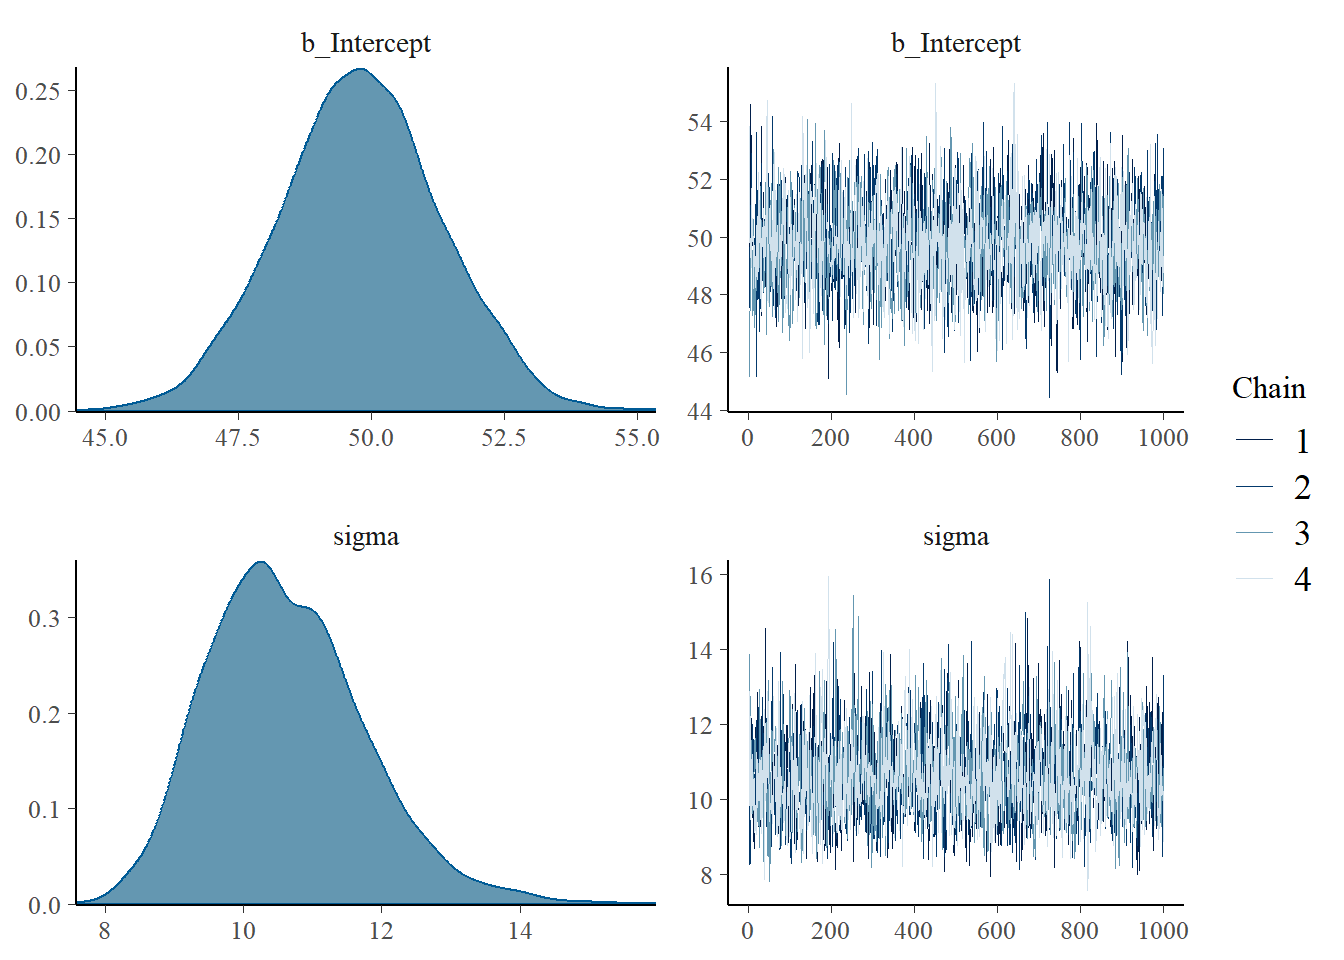
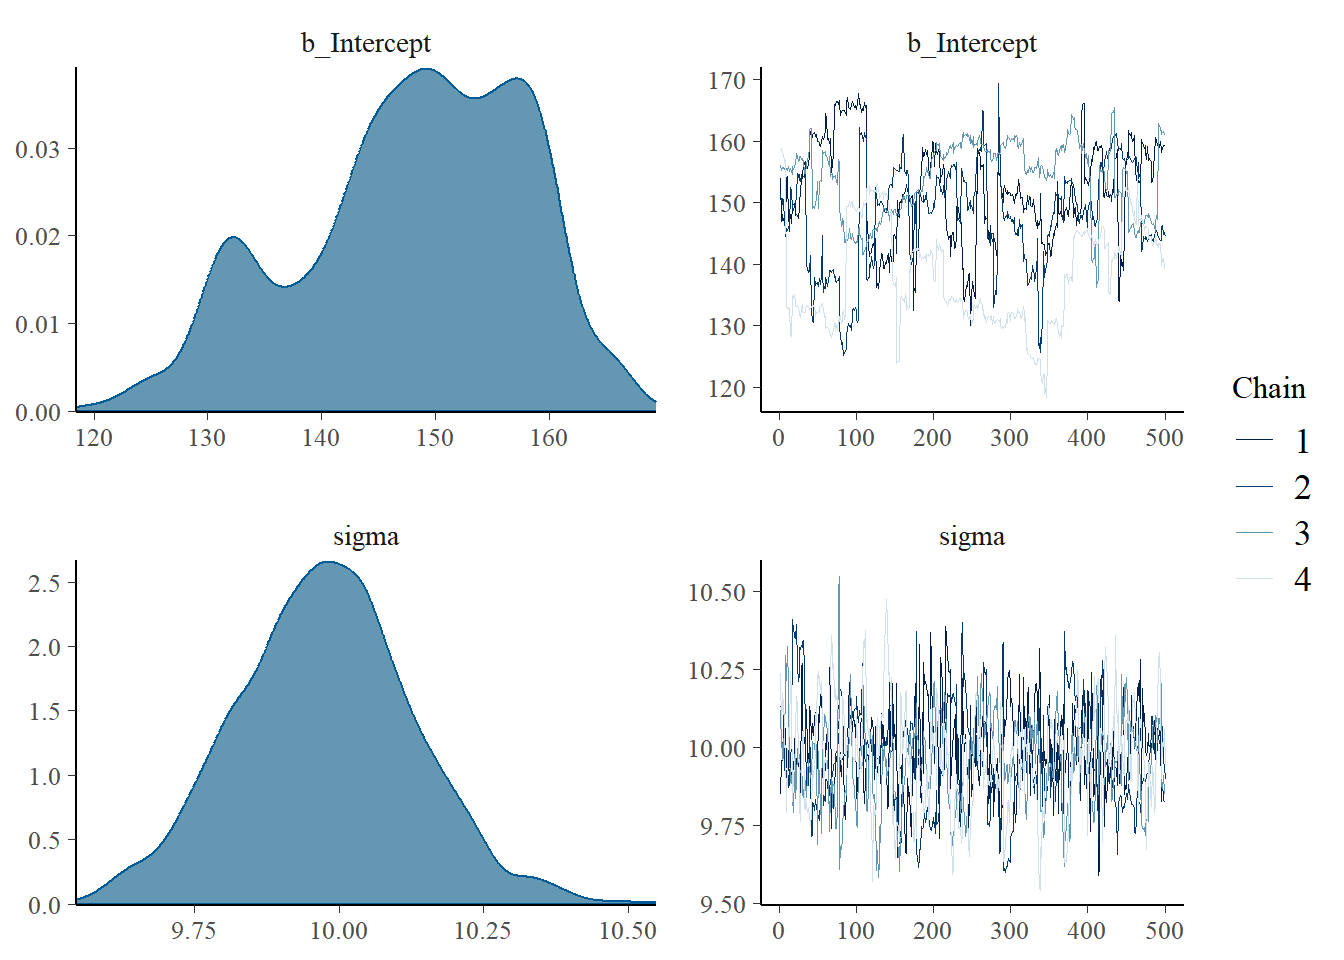
Add files via upload
man, I really would like this to work :)

diff --git a/docs/blog_entries.html b/docs/blog_entries.html
@@ -371,125 +371,29 @@ code span.wa { color: #60a0b0; font-weight: bold; font-style: italic; } /* Warni
 <span id="cb3-17"><a href="#cb3-17" aria-hidden="true" tabindex="-1"></a>  </span>
 <span id="cb3-18"><a href="#cb3-18" aria-hidden="true" tabindex="-1"></a>  <span class="co"># Save the fitted model</span></span>
 <span id="cb3-19"><a href="#cb3-19" aria-hidden="true" tabindex="-1"></a>  <span class="fu">saveRDS</span>(fit, <span class="st">"saved_model2.rds"</span>)</span>
-<span id="cb3-20"><a href="#cb3-20" aria-hidden="true" tabindex="-1"></a>}</span></code><button title="Copy to Clipboard" class="code-copy-button"><i class="bi"></i></button></pre></div>
-<div class="cell-output cell-output-stdout">
-<pre><code>
-SAMPLING FOR MODEL 'anon_model' NOW (CHAIN 1).
-Chain 1: 
-Chain 1: Gradient evaluation took 4.5e-05 seconds
-Chain 1: 1000 transitions using 10 leapfrog steps per transition would take 0.45 seconds.
-Chain 1: Adjust your expectations accordingly!
-Chain 1: 
-Chain 1: 
-Chain 1: Iteration:    1 / 2000 [  0%]  (Warmup)
-Chain 1: Iteration:  200 / 2000 [ 10%]  (Warmup)
-Chain 1: Iteration:  400 / 2000 [ 20%]  (Warmup)
-Chain 1: Iteration:  600 / 2000 [ 30%]  (Warmup)
-Chain 1: Iteration:  800 / 2000 [ 40%]  (Warmup)
-Chain 1: Iteration: 1000 / 2000 [ 50%]  (Warmup)
-Chain 1: Iteration: 1001 / 2000 [ 50%]  (Sampling)
-Chain 1: Iteration: 1200 / 2000 [ 60%]  (Sampling)
-Chain 1: Iteration: 1400 / 2000 [ 70%]  (Sampling)
-Chain 1: Iteration: 1600 / 2000 [ 80%]  (Sampling)
-Chain 1: Iteration: 1800 / 2000 [ 90%]  (Sampling)
-Chain 1: Iteration: 2000 / 2000 [100%]  (Sampling)
-Chain 1: 
-Chain 1:  Elapsed Time: 0.037 seconds (Warm-up)
-Chain 1:                0.023 seconds (Sampling)
-Chain 1:                0.06 seconds (Total)
-Chain 1: 
-
-SAMPLING FOR MODEL 'anon_model' NOW (CHAIN 2).
-Chain 2: 
-Chain 2: Gradient evaluation took 1e-05 seconds
-Chain 2: 1000 transitions using 10 leapfrog steps per transition would take 0.1 seconds.
-Chain 2: Adjust your expectations accordingly!
-Chain 2: 
-Chain 2: 
-Chain 2: Iteration:    1 / 2000 [  0%]  (Warmup)
-Chain 2: Iteration:  200 / 2000 [ 10%]  (Warmup)
-Chain 2: Iteration:  400 / 2000 [ 20%]  (Warmup)
-Chain 2: Iteration:  600 / 2000 [ 30%]  (Warmup)
-Chain 2: Iteration:  800 / 2000 [ 40%]  (Warmup)
-Chain 2: Iteration: 1000 / 2000 [ 50%]  (Warmup)
-Chain 2: Iteration: 1001 / 2000 [ 50%]  (Sampling)
-Chain 2: Iteration: 1200 / 2000 [ 60%]  (Sampling)
-Chain 2: Iteration: 1400 / 2000 [ 70%]  (Sampling)
-Chain 2: Iteration: 1600 / 2000 [ 80%]  (Sampling)
-Chain 2: Iteration: 1800 / 2000 [ 90%]  (Sampling)
-Chain 2: Iteration: 2000 / 2000 [100%]  (Sampling)
-Chain 2: 
-Chain 2:  Elapsed Time: 0.032 seconds (Warm-up)
-Chain 2:                0.024 seconds (Sampling)
-Chain 2:                0.056 seconds (Total)
-Chain 2: 
-
-SAMPLING FOR MODEL 'anon_model' NOW (CHAIN 3).
-Chain 3: 
-Chain 3: Gradient evaluation took 1e-05 seconds
-Chain 3: 1000 transitions using 10 leapfrog steps per transition would take 0.1 seconds.
-Chain 3: Adjust your expectations accordingly!
-Chain 3: 
-Chain 3: 
-Chain 3: Iteration:    1 / 2000 [  0%]  (Warmup)
-Chain 3: Iteration:  200 / 2000 [ 10%]  (Warmup)
-Chain 3: Iteration:  400 / 2000 [ 20%]  (Warmup)
-Chain 3: Iteration:  600 / 2000 [ 30%]  (Warmup)
-Chain 3: Iteration:  800 / 2000 [ 40%]  (Warmup)
-Chain 3: Iteration: 1000 / 2000 [ 50%]  (Warmup)
-Chain 3: Iteration: 1001 / 2000 [ 50%]  (Sampling)
-Chain 3: Iteration: 1200 / 2000 [ 60%]  (Sampling)
-Chain 3: Iteration: 1400 / 2000 [ 70%]  (Sampling)
-Chain 3: Iteration: 1600 / 2000 [ 80%]  (Sampling)
-Chain 3: Iteration: 1800 / 2000 [ 90%]  (Sampling)
-Chain 3: Iteration: 2000 / 2000 [100%]  (Sampling)
-Chain 3: 
-Chain 3:  Elapsed Time: 0.034 seconds (Warm-up)
-Chain 3:                0.033 seconds (Sampling)
-Chain 3:                0.067 seconds (Total)
-Chain 3: 
-
-SAMPLING FOR MODEL 'anon_model' NOW (CHAIN 4).
-Chain 4: 
-Chain 4: Gradient evaluation took 2.1e-05 seconds
-Chain 4: 1000 transitions using 10 leapfrog steps per transition would take 0.21 seconds.
-Chain 4: Adjust your expectations accordingly!
-Chain 4: 
-Chain 4: 
-Chain 4: Iteration:    1 / 2000 [  0%]  (Warmup)
-Chain 4: Iteration:  200 / 2000 [ 10%]  (Warmup)
-Chain 4: Iteration:  400 / 2000 [ 20%]  (Warmup)
-Chain 4: Iteration:  600 / 2000 [ 30%]  (Warmup)
-Chain 4: Iteration:  800 / 2000 [ 40%]  (Warmup)
-Chain 4: Iteration: 1000 / 2000 [ 50%]  (Warmup)
-Chain 4: Iteration: 1001 / 2000 [ 50%]  (Sampling)
-Chain 4: Iteration: 1200 / 2000 [ 60%]  (Sampling)
-Chain 4: Iteration: 1400 / 2000 [ 70%]  (Sampling)
-Chain 4: Iteration: 1600 / 2000 [ 80%]  (Sampling)
-Chain 4: Iteration: 1800 / 2000 [ 90%]  (Sampling)
-Chain 4: Iteration: 2000 / 2000 [100%]  (Sampling)
-Chain 4: 
-Chain 4:  Elapsed Time: 0.036 seconds (Warm-up)
-Chain 4:                0.032 seconds (Sampling)
-Chain 4:                0.068 seconds (Total)
-Chain 4: </code></pre>
-</div>
-<div class="sourceCode cell-code" id="cb5"><pre class="sourceCode r code-with-copy"><code class="sourceCode r"><span id="cb5-1"><a href="#cb5-1" aria-hidden="true" tabindex="-1"></a><span class="fu">summary</span>(fit)</span></code><button title="Copy to Clipboard" class="code-copy-button"><i class="bi"></i></button></pre></div>
+<span id="cb3-20"><a href="#cb3-20" aria-hidden="true" tabindex="-1"></a>}</span>
+<span id="cb3-21"><a href="#cb3-21" aria-hidden="true" tabindex="-1"></a></span>
+<span id="cb3-22"><a href="#cb3-22" aria-hidden="true" tabindex="-1"></a><span class="fu">summary</span>(fit)</span></code><button title="Copy to Clipboard" class="code-copy-button"><i class="bi"></i></button></pre></div>
 <div class="cell-output cell-output-stdout">
 <pre><code> Family: gaussian 
   Links: mu = identity; sigma = identity 
-Formula: aqi ~ 1 
-   Data: city1 (Number of observations: 46) 
-  Draws: 4 chains, each with iter = 2000; warmup = 1000; thin = 1;
-         total post-warmup draws = 4000
+Formula: aqi ~ (1 | city) 
+   Data: dat (Number of observations: 2408) 
+  Draws: 4 chains, each with iter = 1000; warmup = 500; thin = 1;
+         total post-warmup draws = 2000
+
+Group-Level Effects: 
+~city (Number of levels: 50) 
+              Estimate Est.Error l-95% CI u-95% CI Rhat Bulk_ESS Tail_ESS
+sd(Intercept)    61.33      5.31    51.87    72.95 1.04       75       91
 
 Population-Level Effects: 
           Estimate Est.Error l-95% CI u-95% CI Rhat Bulk_ESS Tail_ESS
-Intercept    49.80      1.51    46.85    52.72 1.00     3211     2268
+Intercept   147.93      9.85   128.50   164.39 1.28       11       65
 
 Family Specific Parameters: 
       Estimate Est.Error l-95% CI u-95% CI Rhat Bulk_ESS Tail_ESS
-sigma    10.62      1.13     8.72    13.12 1.00     2589     2639
+sigma     9.98      0.15     9.67    10.28 1.01      254      374
 
 Draws were sampled using sampling(NUTS). For each parameter, Bulk_ESS
 and Tail_ESS are effective sample size measures, and Rhat is the potential
@@ -503,7 +407,7 @@ scale reduction factor on split chains (at convergence, Rhat = 1).</code></pre>
 <p>One important aspect of MCMC sampling diagnostics is chain convergence. Convergence refers to the property that the chains have explored the posterior distribution sufficiently and have reached a stationary state where further sampling does not significantly affect the results. In other words, the chains have “mixed” well and are sampling from the target distribution. If the chains have not converged, the samples may not accurately represent the posterior distribution, and any inferences drawn from them could be biased or misleading.</p>
 <p>To assess chain convergence, various diagnostic methods can be employed. One commonly used approach is based on the examination of trace plots. A trace plot displays the values of a parameter across iterations (samples) of the MCMC algorithm for each chain. By visually inspecting the trace plots, one can look for indications of convergence, such as stable behavior, absence of large trends, and absence of excessive autocorrelation (i.e., dependence between consecutive samples). If the trace plots exhibit erratic or unstable patterns, it suggests that further sampling may be required to achieve convergence. Figure 4 presents the trace plot for our earlier Bayesian model. This plot shows the sampled parameter against the iteration number. Notice in both Figure 4 and our model output an initial phase of the MCMC chain, when the chain converges away from initial values towards the target distribution. This is called the <strong>burn-in phase</strong> and allows us to discard the autocorrelated period when <span class="math inline">\(s+1\)</span> depends on <span class="math inline">\(s\)</span>.</p>
 <div class="cell">
-<div class="sourceCode cell-code" id="cb7"><pre class="sourceCode r code-with-copy"><code class="sourceCode r"><span id="cb7-1"><a href="#cb7-1" aria-hidden="true" tabindex="-1"></a><span class="fu">plot</span>(fit, <span class="at">variable =</span> <span class="fu">c</span>(<span class="st">"b_Intercept"</span>, <span class="st">"sigma"</span>))</span></code><button title="Copy to Clipboard" class="code-copy-button"><i class="bi"></i></button></pre></div>
+<div class="sourceCode cell-code" id="cb5"><pre class="sourceCode r code-with-copy"><code class="sourceCode r"><span id="cb5-1"><a href="#cb5-1" aria-hidden="true" tabindex="-1"></a><span class="fu">plot</span>(fit, <span class="at">variable =</span> <span class="fu">c</span>(<span class="st">"b_Intercept"</span>, <span class="st">"sigma"</span>))</span></code><button title="Copy to Clipboard" class="code-copy-button"><i class="bi"></i></button></pre></div>
 <div class="cell-output-display">
 <p><img src="blog_entries_files/figure-html/unnamed-chunk-8-1.png" class="img-fluid" width="672"></p>
 </div>
@@ -519,19 +423,19 @@ scale reduction factor on split chains (at convergence, Rhat = 1).</code></pre>
 <li><p>‘cores = getOption(“mc.cores”, 4)’: The ‘cores’ argument determines the number of CPU cores to be used for parallel computation. In this example, the ‘getOption(“mc.cores”, 4)’ part allows the model to automatically detect the available number of CPU cores. It uses either the number of cores specified by the user or defaults to 4 cores if not specified.</p></li>
 </ul>
 <div class="cell">
-<div class="sourceCode cell-code" id="cb8"><pre class="sourceCode r code-with-copy"><code class="sourceCode r"><span id="cb8-1"><a href="#cb8-1" aria-hidden="true" tabindex="-1"></a><span class="co"># Check if the saved model exists</span></span>
-<span id="cb8-2"><a href="#cb8-2" aria-hidden="true" tabindex="-1"></a><span class="cf">if</span> (<span class="fu">file.exists</span>(<span class="st">"saved_model2.rds"</span>)) {</span>
-<span id="cb8-3"><a href="#cb8-3" aria-hidden="true" tabindex="-1"></a>  <span class="co"># Load the saved model</span></span>
-<span id="cb8-4"><a href="#cb8-4" aria-hidden="true" tabindex="-1"></a>  fit <span class="ot">&lt;-</span> <span class="fu">readRDS</span>(<span class="st">"saved_model.rds"</span>)</span>
-<span id="cb8-5"><a href="#cb8-5" aria-hidden="true" tabindex="-1"></a>} <span class="cf">else</span> {</span>
-<span id="cb8-6"><a href="#cb8-6" aria-hidden="true" tabindex="-1"></a>  </span>
-<span id="cb8-7"><a href="#cb8-7" aria-hidden="true" tabindex="-1"></a>  <span class="co"># Fit the model</span></span>
-<span id="cb8-8"><a href="#cb8-8" aria-hidden="true" tabindex="-1"></a>  fit <span class="ot">&lt;-</span> <span class="fu">brm</span>(aqi <span class="sc">~</span> <span class="dv">1</span>, <span class="at">data =</span> city1, </span>
-<span id="cb8-9"><a href="#cb8-9" aria-hidden="true" tabindex="-1"></a>             <span class="at">chains =</span> <span class="dv">4</span>, <span class="at">iter =</span> <span class="dv">1000</span>, <span class="at">warmup =</span> <span class="dv">500</span>, <span class="at">cores =</span> <span class="fu">getOption</span>(<span class="st">"mc.cores"</span>, <span class="dv">4</span>))</span>
-<span id="cb8-10"><a href="#cb8-10" aria-hidden="true" tabindex="-1"></a>  </span>
-<span id="cb8-11"><a href="#cb8-11" aria-hidden="true" tabindex="-1"></a>  <span class="co"># Save the fitted model</span></span>
-<span id="cb8-12"><a href="#cb8-12" aria-hidden="true" tabindex="-1"></a>  <span class="fu">saveRDS</span>(fit, <span class="st">"saved_model2.rds"</span>)</span>
-<span id="cb8-13"><a href="#cb8-13" aria-hidden="true" tabindex="-1"></a>}</span></code><button title="Copy to Clipboard" class="code-copy-button"><i class="bi"></i></button></pre></div>
+<div class="sourceCode cell-code" id="cb6"><pre class="sourceCode r code-with-copy"><code class="sourceCode r"><span id="cb6-1"><a href="#cb6-1" aria-hidden="true" tabindex="-1"></a><span class="co"># Check if the saved model exists</span></span>
+<span id="cb6-2"><a href="#cb6-2" aria-hidden="true" tabindex="-1"></a><span class="cf">if</span> (<span class="fu">file.exists</span>(<span class="st">"saved_model2.rds"</span>)) {</span>
+<span id="cb6-3"><a href="#cb6-3" aria-hidden="true" tabindex="-1"></a>  <span class="co"># Load the saved model</span></span>
+<span id="cb6-4"><a href="#cb6-4" aria-hidden="true" tabindex="-1"></a>  fit <span class="ot">&lt;-</span> <span class="fu">readRDS</span>(<span class="st">"saved_model.rds"</span>)</span>
+<span id="cb6-5"><a href="#cb6-5" aria-hidden="true" tabindex="-1"></a>} <span class="cf">else</span> {</span>
+<span id="cb6-6"><a href="#cb6-6" aria-hidden="true" tabindex="-1"></a>  </span>
+<span id="cb6-7"><a href="#cb6-7" aria-hidden="true" tabindex="-1"></a>  <span class="co"># Fit the model</span></span>
+<span id="cb6-8"><a href="#cb6-8" aria-hidden="true" tabindex="-1"></a>  fit <span class="ot">&lt;-</span> <span class="fu">brm</span>(aqi <span class="sc">~</span> <span class="dv">1</span>, <span class="at">data =</span> city1, </span>
+<span id="cb6-9"><a href="#cb6-9" aria-hidden="true" tabindex="-1"></a>             <span class="at">chains =</span> <span class="dv">4</span>, <span class="at">iter =</span> <span class="dv">1000</span>, <span class="at">warmup =</span> <span class="dv">500</span>, <span class="at">cores =</span> <span class="fu">getOption</span>(<span class="st">"mc.cores"</span>, <span class="dv">4</span>))</span>
+<span id="cb6-10"><a href="#cb6-10" aria-hidden="true" tabindex="-1"></a>  </span>
+<span id="cb6-11"><a href="#cb6-11" aria-hidden="true" tabindex="-1"></a>  <span class="co"># Save the fitted model</span></span>
+<span id="cb6-12"><a href="#cb6-12" aria-hidden="true" tabindex="-1"></a>  <span class="fu">saveRDS</span>(fit, <span class="st">"saved_model2.rds"</span>)</span>
+<span id="cb6-13"><a href="#cb6-13" aria-hidden="true" tabindex="-1"></a>}</span></code><button title="Copy to Clipboard" class="code-copy-button"><i class="bi"></i></button></pre></div>
 </div>
 </section>
 <section id="hierarchical-modeling-in-brms" class="level2">
@@ -540,23 +444,23 @@ scale reduction factor on split chains (at convergence, Rhat = 1).</code></pre>
 <p>Let’s return once again to our simulated AQI example. Just as before, our goal is to estimate the expected AQI in each city. Fitting the model hierarchically allows us to generate partially-pooled estimates, where our within-city means are shrunk towards the state-level mean as the city sample size decreases. It’s sorta like magic, and if it makes you feel ~a certain type of way~ I wouldn’t blame you.</p>
 <p>For this simplified model with no additional predictors, it’s fairly straightforward to estimate in ‘brms()’. To do so, we add “| grouping variable” to any covariate (in this case, the intercept) for which we aim to estimate group-specific parameters. The ‘brms()’ package also provides output on group-level effects (<span class="math inline">\(\hat{\sigma}_n = 60.14\)</span>), population-level effects (<span class="math inline">\(\hat{\mu}_{\alpha} =151.16\)</span>), and family-specific parameters (<span class="math inline">\(\hat{\sigma}_y = 10.02\)</span>). We are also blessed to be given the number of levels (here <span class="math inline">\(50\)</span>) which can serve as a fail safe to ensure we haven’t made some glaring mistake. Finally, notice that I’ve bumped up the chains and iterations as an easy tweak to improve convergence. As a fun exercise, try messing with these arguments and glance at the <span class="math inline">\(\hat{R}\)</span> and trace plots to see an example of what not to do.</p>
 <div class="cell">
-<div class="sourceCode cell-code" id="cb9"><pre class="sourceCode r code-with-copy"><code class="sourceCode r"><span id="cb9-1"><a href="#cb9-1" aria-hidden="true" tabindex="-1"></a><span class="co"># Check if the saved model exists</span></span>
-<span id="cb9-2"><a href="#cb9-2" aria-hidden="true" tabindex="-1"></a><span class="cf">if</span> (<span class="fu">file.exists</span>(<span class="st">"saved_model.rds"</span>)) {</span>
-<span id="cb9-3"><a href="#cb9-3" aria-hidden="true" tabindex="-1"></a>  <span class="co"># Load the saved model</span></span>
-<span id="cb9-4"><a href="#cb9-4" aria-hidden="true" tabindex="-1"></a>  fit2 <span class="ot">&lt;-</span> <span class="fu">readRDS</span>(<span class="st">"saved_model.rds"</span>)</span>
-<span id="cb9-5"><a href="#cb9-5" aria-hidden="true" tabindex="-1"></a>} <span class="cf">else</span> {</span>
-<span id="cb9-6"><a href="#cb9-6" aria-hidden="true" tabindex="-1"></a>  <span class="co"># Fit the model (note the addition of the grouping variable)</span></span>
-<span id="cb9-7"><a href="#cb9-7" aria-hidden="true" tabindex="-1"></a>  fit2 <span class="ot">&lt;-</span> <span class="fu">brm</span>(aqi <span class="sc">~</span> (<span class="dv">1</span><span class="sc">|</span>city),</span>
-<span id="cb9-8"><a href="#cb9-8" aria-hidden="true" tabindex="-1"></a>             <span class="at">data =</span> dat,</span>
-<span id="cb9-9"><a href="#cb9-9" aria-hidden="true" tabindex="-1"></a>             <span class="at">iter =</span> <span class="dv">3000</span>,</span>
-<span id="cb9-10"><a href="#cb9-10" aria-hidden="true" tabindex="-1"></a>             <span class="at">chains =</span> <span class="dv">4</span>,</span>
-<span id="cb9-11"><a href="#cb9-11" aria-hidden="true" tabindex="-1"></a>             <span class="at">cores =</span> <span class="fu">getOption</span>(<span class="st">"mc.cores"</span>, <span class="dv">4</span>))</span>
-<span id="cb9-12"><a href="#cb9-12" aria-hidden="true" tabindex="-1"></a>  </span>
-<span id="cb9-13"><a href="#cb9-13" aria-hidden="true" tabindex="-1"></a>  <span class="co"># Save the fitted model</span></span>
-<span id="cb9-14"><a href="#cb9-14" aria-hidden="true" tabindex="-1"></a>  <span class="fu">saveRDS</span>(fit2, <span class="st">"saved_model.rds"</span>)</span>
-<span id="cb9-15"><a href="#cb9-15" aria-hidden="true" tabindex="-1"></a>}</span>
-<span id="cb9-16"><a href="#cb9-16" aria-hidden="true" tabindex="-1"></a></span>
-<span id="cb9-17"><a href="#cb9-17" aria-hidden="true" tabindex="-1"></a><span class="fu">summary</span>(fit2)</span></code><button title="Copy to Clipboard" class="code-copy-button"><i class="bi"></i></button></pre></div>
+<div class="sourceCode cell-code" id="cb7"><pre class="sourceCode r code-with-copy"><code class="sourceCode r"><span id="cb7-1"><a href="#cb7-1" aria-hidden="true" tabindex="-1"></a><span class="co"># Check if the saved model exists</span></span>
+<span id="cb7-2"><a href="#cb7-2" aria-hidden="true" tabindex="-1"></a><span class="cf">if</span> (<span class="fu">file.exists</span>(<span class="st">"saved_model.rds"</span>)) {</span>
+<span id="cb7-3"><a href="#cb7-3" aria-hidden="true" tabindex="-1"></a>  <span class="co"># Load the saved model</span></span>
+<span id="cb7-4"><a href="#cb7-4" aria-hidden="true" tabindex="-1"></a>  fit2 <span class="ot">&lt;-</span> <span class="fu">readRDS</span>(<span class="st">"saved_model.rds"</span>)</span>
+<span id="cb7-5"><a href="#cb7-5" aria-hidden="true" tabindex="-1"></a>} <span class="cf">else</span> {</span>
+<span id="cb7-6"><a href="#cb7-6" aria-hidden="true" tabindex="-1"></a>  <span class="co"># Fit the model (note the addition of the grouping variable)</span></span>
+<span id="cb7-7"><a href="#cb7-7" aria-hidden="true" tabindex="-1"></a>  fit2 <span class="ot">&lt;-</span> <span class="fu">brm</span>(aqi <span class="sc">~</span> (<span class="dv">1</span><span class="sc">|</span>city),</span>
+<span id="cb7-8"><a href="#cb7-8" aria-hidden="true" tabindex="-1"></a>             <span class="at">data =</span> dat,</span>
+<span id="cb7-9"><a href="#cb7-9" aria-hidden="true" tabindex="-1"></a>             <span class="at">iter =</span> <span class="dv">3000</span>,</span>
+<span id="cb7-10"><a href="#cb7-10" aria-hidden="true" tabindex="-1"></a>             <span class="at">chains =</span> <span class="dv">4</span>,</span>
+<span id="cb7-11"><a href="#cb7-11" aria-hidden="true" tabindex="-1"></a>             <span class="at">cores =</span> <span class="fu">getOption</span>(<span class="st">"mc.cores"</span>, <span class="dv">4</span>))</span>
+<span id="cb7-12"><a href="#cb7-12" aria-hidden="true" tabindex="-1"></a>  </span>
+<span id="cb7-13"><a href="#cb7-13" aria-hidden="true" tabindex="-1"></a>  <span class="co"># Save the fitted model</span></span>
+<span id="cb7-14"><a href="#cb7-14" aria-hidden="true" tabindex="-1"></a>  <span class="fu">saveRDS</span>(fit2, <span class="st">"saved_model.rds"</span>)</span>
+<span id="cb7-15"><a href="#cb7-15" aria-hidden="true" tabindex="-1"></a>}</span>
+<span id="cb7-16"><a href="#cb7-16" aria-hidden="true" tabindex="-1"></a></span>
+<span id="cb7-17"><a href="#cb7-17" aria-hidden="true" tabindex="-1"></a><span class="fu">summary</span>(fit2)</span></code><button title="Copy to Clipboard" class="code-copy-button"><i class="bi"></i></button></pre></div>
 <div class="cell-output cell-output-stdout">
 <pre><code> Family: gaussian 
   Links: mu = identity; sigma = identity 

diff --git a/docs/even_more.html b/docs/even_more.html
@@ -95,6 +95,10 @@ ul.task-list li input[type="checkbox"] {
     <a class="nav-link active" href="./even_more.html" aria-current="page">
  <span class="menu-text">Other ‘Projects’</span></a>
   </li>  
+  <li class="nav-item">
+    <a class="nav-link" href="./blog_entries.html">
+ <span class="menu-text">Blog</span></a>
+  </li>  
 </ul>
               <div id="quarto-search" class="" title="Search"></div>
           </div> <!-- /navcollapse -->
